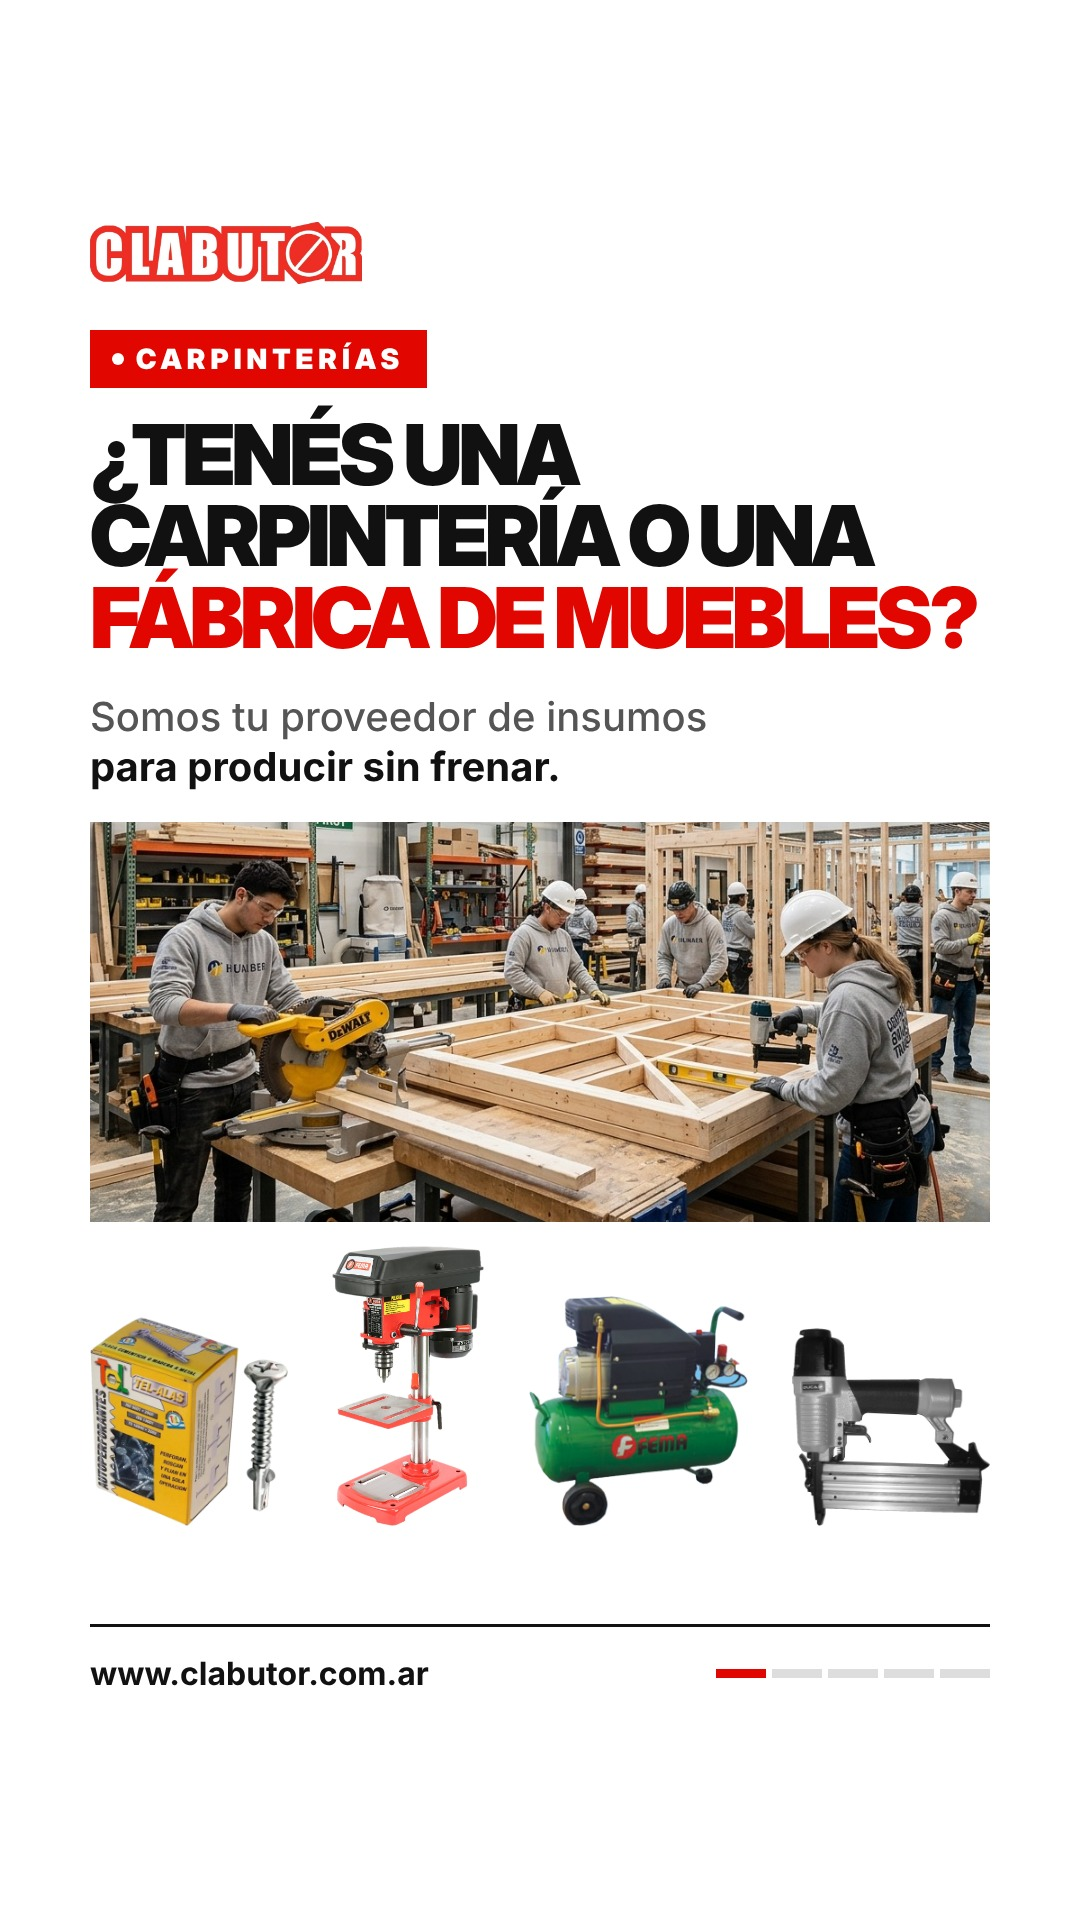
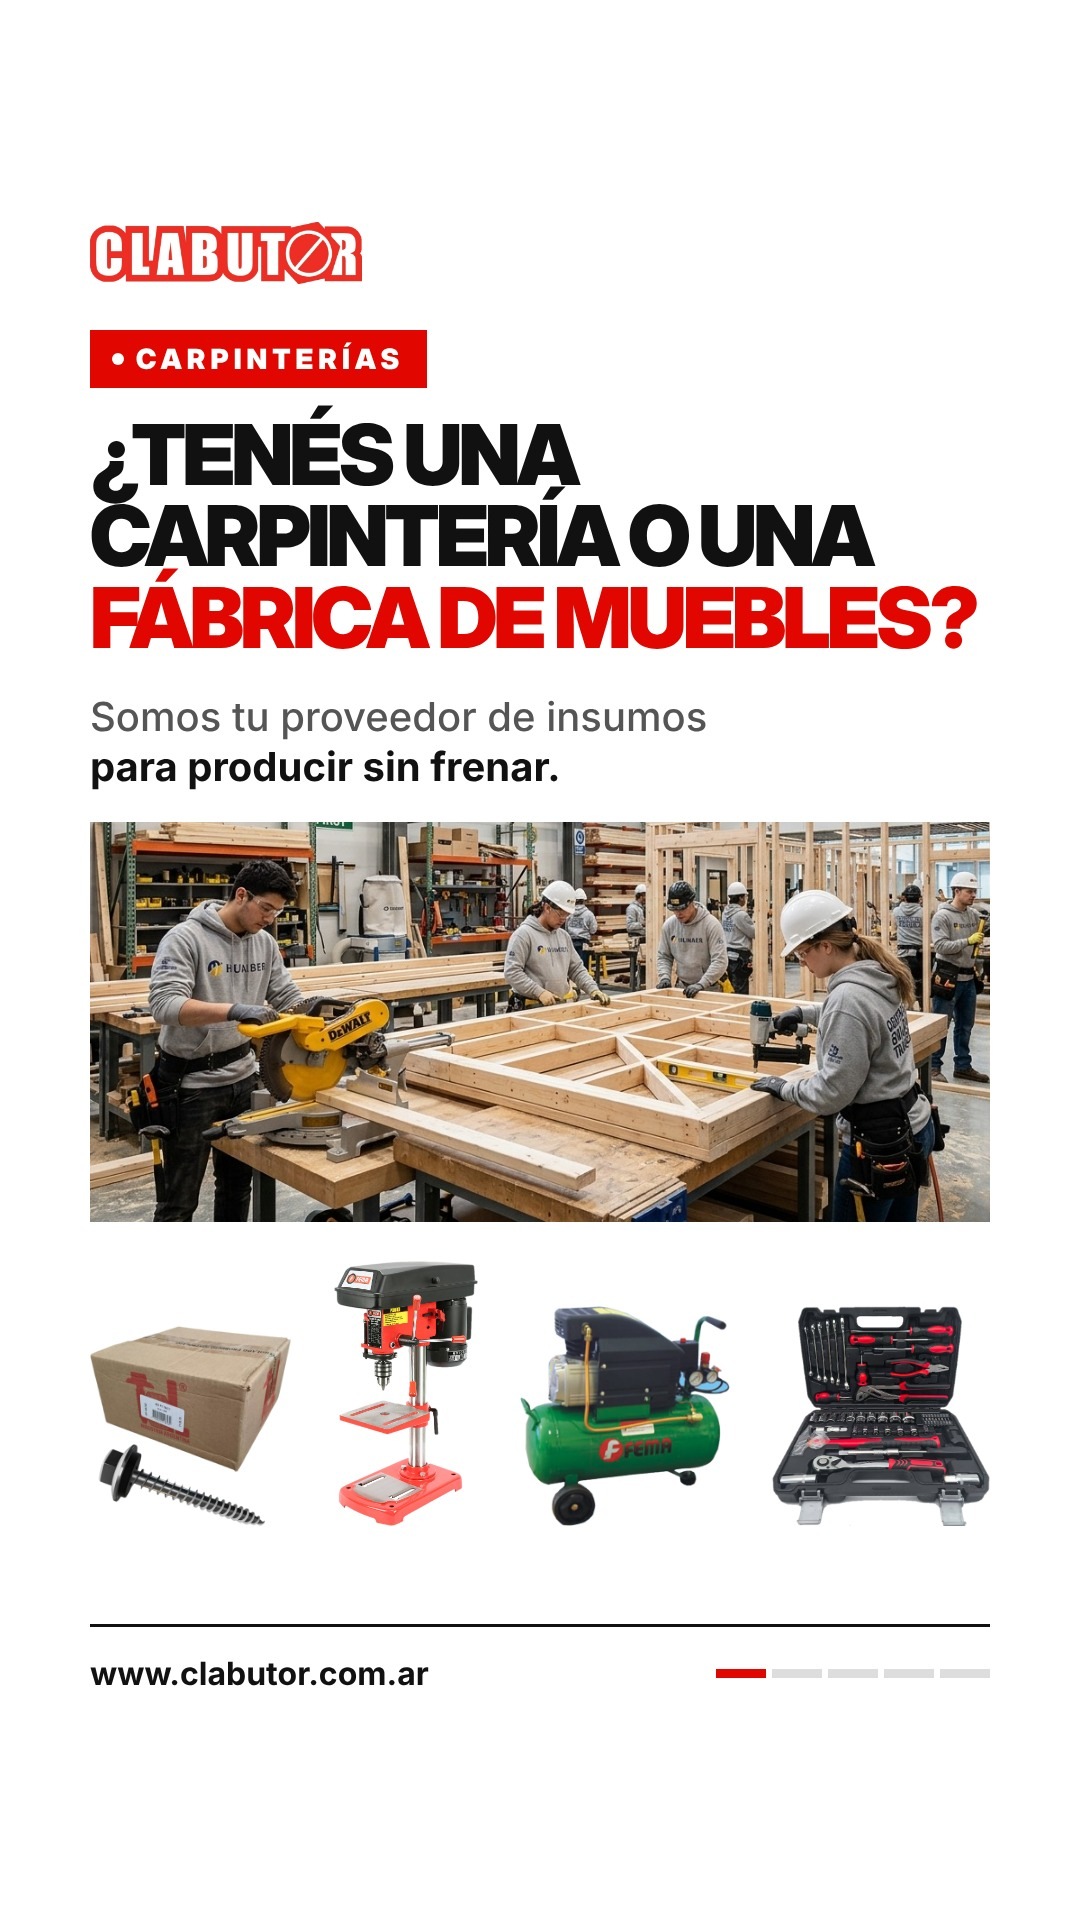
Historias carpintería v3: productos variados, sin repetir (Bosch, DUCA, Vanguard, Tel, Fischer)
Claude-Session: https://claude.ai/code/session_01XbJLpPx7CCs1ipZpL6GiAh

diff --git a/disenos/posteos/historia-carpinteria.py b/disenos/posteos/historia-carpinteria.py
@@ -4,7 +4,10 @@ Productos con foto real y stock:
 - clabutor.com.ar: autoperforante Tel alas (15108032TELEST), taco Fischer SX 8 (104070008), caja Tel x 10.000 (14108012TEL)
 - FEMA (Drive): taladro de banco 13 mm (69330110), compresor FEMA 2 HP 25 L (69370206), compresor DUCA silencioso
   (69370100), clavadora neumática DUCA (800050), engrampadora neumática DUCA (800040)
-Historia 4: sin sierras circulares, ingletadoras, atornilladores, caladoras ni lijadoras (FEMA no las tiene con foto y stock).
+Historia 4 (sin repetir productos de las otras): Bosch GSB 183-LI, GBH 2-28 D, GSR 7-14 E, GST 75 E y GSB 450 RE
+(fotos de bosch-professional.com/ar), compresor DUCA a correa 180 L (69370029), clavadora de bobina DUCA (800060),
+engrampadora DUCA (800416), martillo bolita y destornillador Vanguard. Sin sierras circulares, ingletadoras ni lijadoras
+(FEMA no las tiene con stock).
 Historia 3: los bulones de clabutor.com.ar no tienen foto -> va la foto del taller, sin productos."""
 
 import importlib.util
@@ -43,8 +46,8 @@ def placas(g):
 <h1 style="font-size:84px;margin-top:26px;white-space:nowrap">¿Tenés una<br>carpintería o una<br><em>fábrica de muebles?</em></h1>
 <p class="bajada" style="font-size:40px">Somos tu proveedor de insumos<br><b>para producir sin frenar.</b></p>
 {ambiente("taller-a.jpg", 400)}
-{fila(foto("15108032TELEST", "max-width:22%;max-height:250px"), foto("69330110", "max-width:18%;max-height:280px"),
-      foto("69370206", "max-width:26%;max-height:230px"), foto("800050", "max-width:22%;max-height:230px"), alto=280)}
+{fila(foto("14614050PC", "max-width:24%;max-height:200px"), foto("69330110", "max-width:16%;max-height:280px"),
+      foto("69370206", "max-width:26%;max-height:220px"), foto("69440103", "max-width:26%;max-height:220px"), alto=280)}
 '''
 
     p2 = f'''
@@ -52,8 +55,8 @@ def placas(g):
 <h1 style="font-size:86px;margin-top:26px;white-space:nowrap">Fijaciones<br><em>para tu producción</em></h1>
 <p class="bajada" style="font-size:36px"><b>Tornillos para madera y aglomerado, autoperforantes, tirafondos, tarugos y clavos,</b> en todas las medidas y por cantidad.</p>
 {ambiente("tornillos-a.jpg", 420, "center 40%")}
-{fila(foto("15108032TELEST", "max-width:34%;max-height:290px"), foto("104070008", "max-width:30%;max-height:110px;margin-bottom:60px"),
-      foto("14108012TEL", "max-width:30%;max-height:230px"), alto=290)}
+{fila(foto("14706025TEL", "max-width:24%;max-height:220px"), foto("15108032TELEST", "max-width:24%;max-height:260px"),
+      foto("104070006", "max-width:22%;max-height:200px"), foto("14110025TELEST", "max-width:24%;max-height:260px"), alto=280)}
 '''
 
     p3 = f'''
@@ -66,12 +69,17 @@ def placas(g):
     p4 = f'''
 <div class="pildora"><i></i>HERRAMIENTAS</div>
 <h1 style="font-size:82px;margin-top:26px;white-space:nowrap">Herramientas FEMA<br><em>para el taller</em></h1>
-<p class="bajada" style="font-size:40px"><b>Taladros, compresores</b><br>y clavadoras neumáticas.</p>
-<div style="display:grid;grid-template-columns:1fr 1fr;grid-template-rows:330px 300px;gap:18px;margin-top:34px">
-  <div style="display:flex;align-items:flex-end;justify-content:center;border:3px solid #E4E4E4;padding:16px">{foto("69330110", "max-height:100%;max-width:100%")}</div>
-  <div style="display:flex;align-items:flex-end;justify-content:center;border:3px solid #E4E4E4;padding:16px">{foto("69370206", "max-height:100%;max-width:100%")}</div>
-  <div style="display:flex;align-items:flex-end;justify-content:center;border:3px solid #E4E4E4;padding:16px">{foto("69370100", "max-height:100%;max-width:100%")}</div>
-  <div style="display:flex;align-items:flex-end;justify-content:center;gap:10px;border:3px solid #E4E4E4;padding:16px">{foto("800050", "max-height:100%;max-width:48%")}{foto("800040", "max-height:100%;max-width:48%")}</div>
+<p class="bajada" style="font-size:36px"><b>Taladros, perforadoras, atornilladores, caladoras,</b> compresores, clavadoras neumáticas y herramientas manuales.</p>
+<div style="display:grid;grid-template-columns:1fr 1fr 1fr;grid-template-rows:repeat(3,215px);gap:14px;margin-top:30px">
+  <div style="display:flex;align-items:center;justify-content:center;gap:6px;border:3px solid #E4E4E4;padding:12px;min-height:0">{foto("06019K91E6-000", "max-height:100%;max-width:100%")}</div>
+  <div style="display:flex;align-items:center;justify-content:center;gap:6px;border:3px solid #E4E4E4;padding:12px;min-height:0">{foto("06112673H0-000", "max-height:100%;max-width:100%")}</div>
+  <div style="display:flex;align-items:center;justify-content:center;gap:6px;border:3px solid #E4E4E4;padding:12px;min-height:0">{foto("06014470H0-000", "max-height:100%;max-width:100%")}</div>
+  <div style="display:flex;align-items:center;justify-content:center;gap:6px;border:3px solid #E4E4E4;padding:12px;min-height:0">{foto("060158H0H0-000", "max-height:100%;max-width:100%")}</div>
+  <div style="display:flex;align-items:center;justify-content:center;gap:6px;border:3px solid #E4E4E4;padding:12px;min-height:0">{foto("06011B50H0-000", "max-height:100%;max-width:100%")}</div>
+  <div style="display:flex;align-items:center;justify-content:center;gap:6px;border:3px solid #E4E4E4;padding:12px;min-height:0">{foto("69370029", "max-height:100%;max-width:100%")}</div>
+  <div style="display:flex;align-items:center;justify-content:center;gap:6px;border:3px solid #E4E4E4;padding:12px;min-height:0">{foto("800060", "max-height:100%;max-width:100%")}</div>
+  <div style="display:flex;align-items:center;justify-content:center;gap:6px;border:3px solid #E4E4E4;padding:12px;min-height:0">{foto("800416", "max-height:100%;max-width:100%")}</div>
+  <div style="display:flex;align-items:center;justify-content:center;gap:6px;border:3px solid #E4E4E4;padding:12px;min-height:0">{foto("69411150", "max-height:100%;max-width:55%")}{foto("69435565", "max-height:100%;max-width:40%")}</div>
 </div>
 <div style="position:absolute;left:0;right:0;bottom:0;display:flex;align-items:center;gap:26px;background:{ROJO};color:#fff;padding:22px 34px">
   <span style="font-family:Titular;font-weight:900;font-size:104px;line-height:.85;letter-spacing:-4px">6</span>
